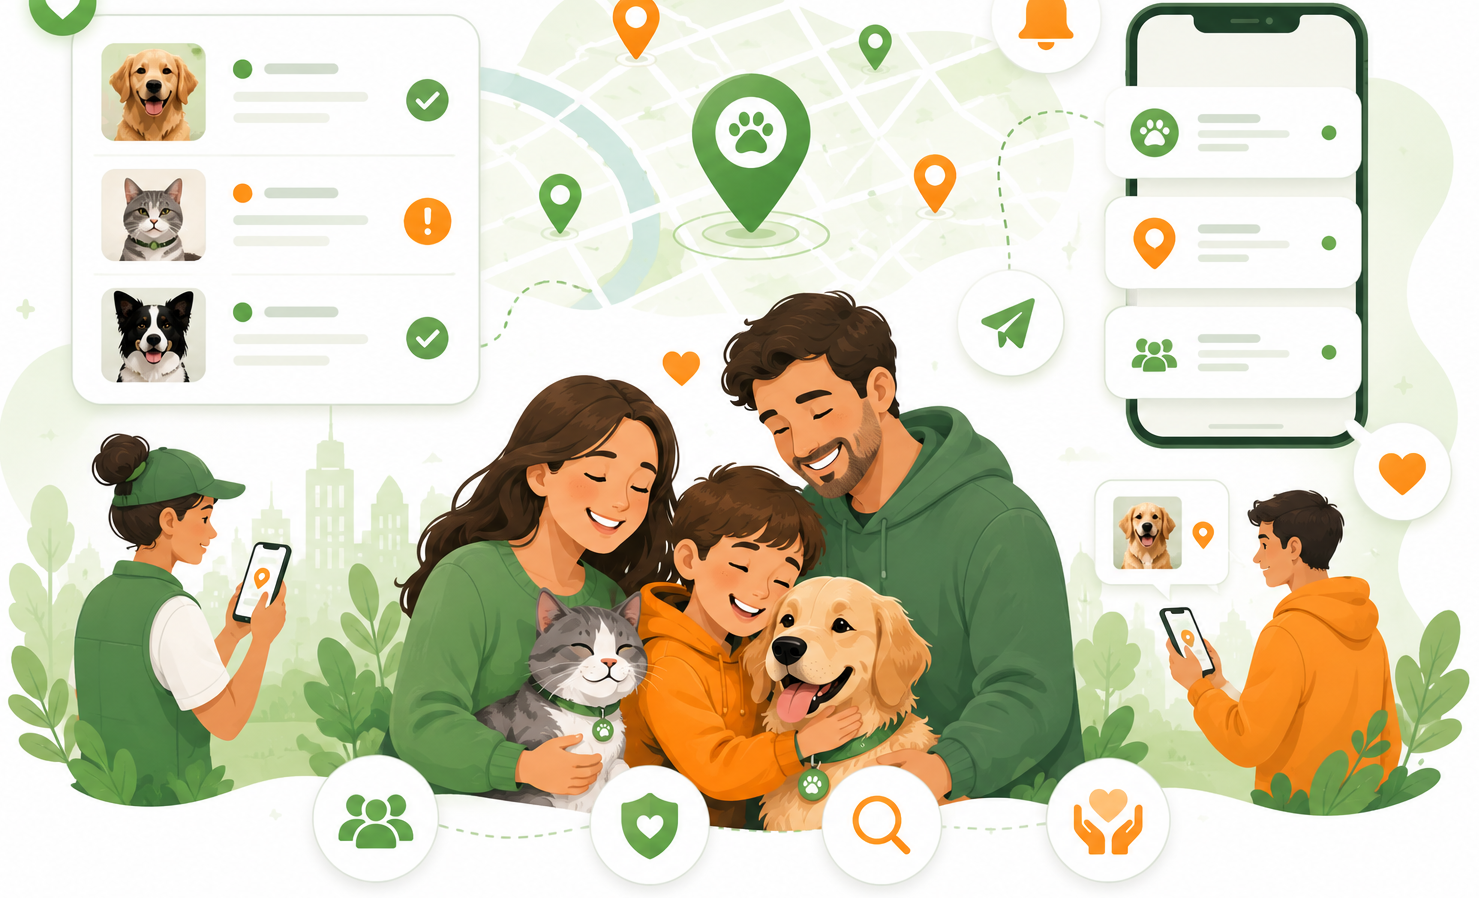
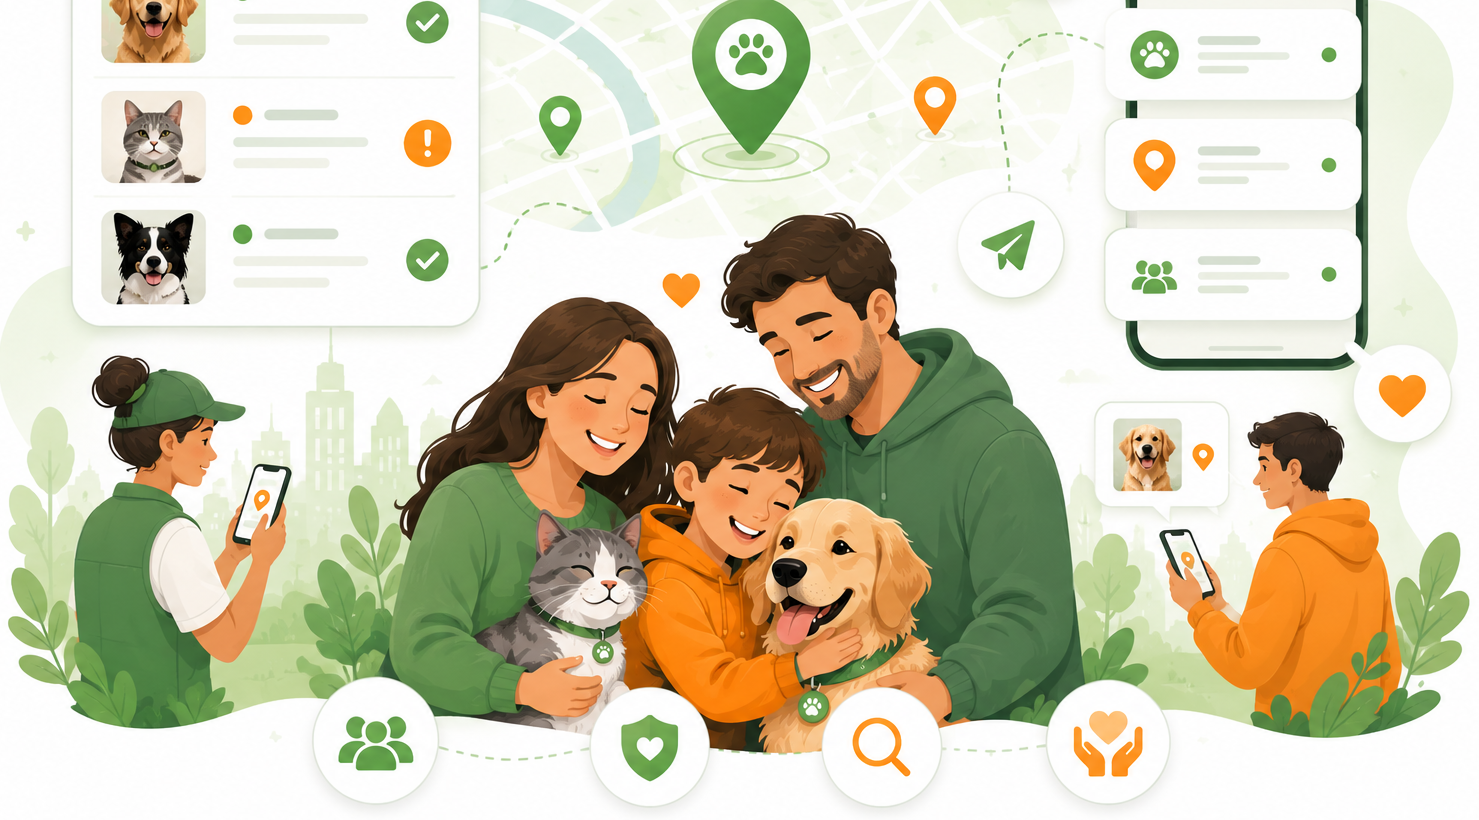
adicionar espaco e padding na barra de stats

diff --git a/src/pages/Home.tsx b/src/pages/Home.tsx
@@ -112,7 +112,7 @@ export default function Home() {
       </section>
 
       {/* STATS */}
-      <section className="mt-2" style={{ background: VERDE_ESCURO }}>
+      <section style={{ background: VERDE_ESCURO }}>
         <div className="max-w-7xl mx-auto grid grid-cols-2 md:grid-cols-4">
           {[
             { value: stats.desaparecidos, label: 'Perdidos agora' },
@@ -120,7 +120,7 @@ export default function Home() {
             { value: stats.total, label: 'Animais registados' },
             { value: '87%', label: 'Taxa de sucesso' },
           ].map(s => (
-            <div key={s.label} className="text-center py-10 px-4">
+            <div key={s.label} className="text-center py-6 px-4">
               <div className="text-4xl font-black" style={{ color: '#d9f99d', fontFamily: 'Georgia, serif' }}>{s.value}</div>
               <div className="text-sm mt-1.5" style={{ color: '#86efac' }}>{s.label}</div>
             </div>
@@ -129,7 +129,7 @@ export default function Home() {
       </section>
 
       {/* COMO FUNCIONA + FUNCIONALIDADES */}
-      <section className="pt-28 pb-4 px-8" style={{ background: 'white' }}>
+      <section className="pt-28 pb-10 px-8" style={{ background: 'white' }}>
         <div className="max-w-6xl mx-auto">
           <div className="text-center mb-14">
             <div className="inline-block text-xs font-bold px-4 py-1.5 rounded-full mb-4 uppercase tracking-wider"
@@ -223,7 +223,7 @@ export default function Home() {
       </section>
 
       {/* REVIEWS */}
-      <section className="pt-4 pb-28 px-8" style={{ background: 'white' }}>
+      <section className="pt-10 pb-28 px-8" style={{ background: 'white' }}>
         <div className="max-w-6xl mx-auto">
           <div className="text-center mb-12">
             <div className="inline-block text-xs font-bold px-4 py-1.5 rounded-full mb-4 uppercase tracking-wider"
@@ -278,7 +278,7 @@ export default function Home() {
                 <div>
                   <label className="text-sm font-semibold mb-1.5 block" style={{ color: VERDE_ESCURO }}>Classificação</label>
                   <div className="flex gap-1">
-                    {[1, 2, 3, 4, 5].map(n => (
+                    {[1,2,3,4,5].map(n => (
                       <button key={n} type="button" onClick={() => setReviewEstrelas(n)}
                         className="text-2xl transition-transform hover:scale-110"
                         style={{ color: n <= reviewEstrelas ? '#f59e0b' : '#e5e7eb' }}>★</button>
